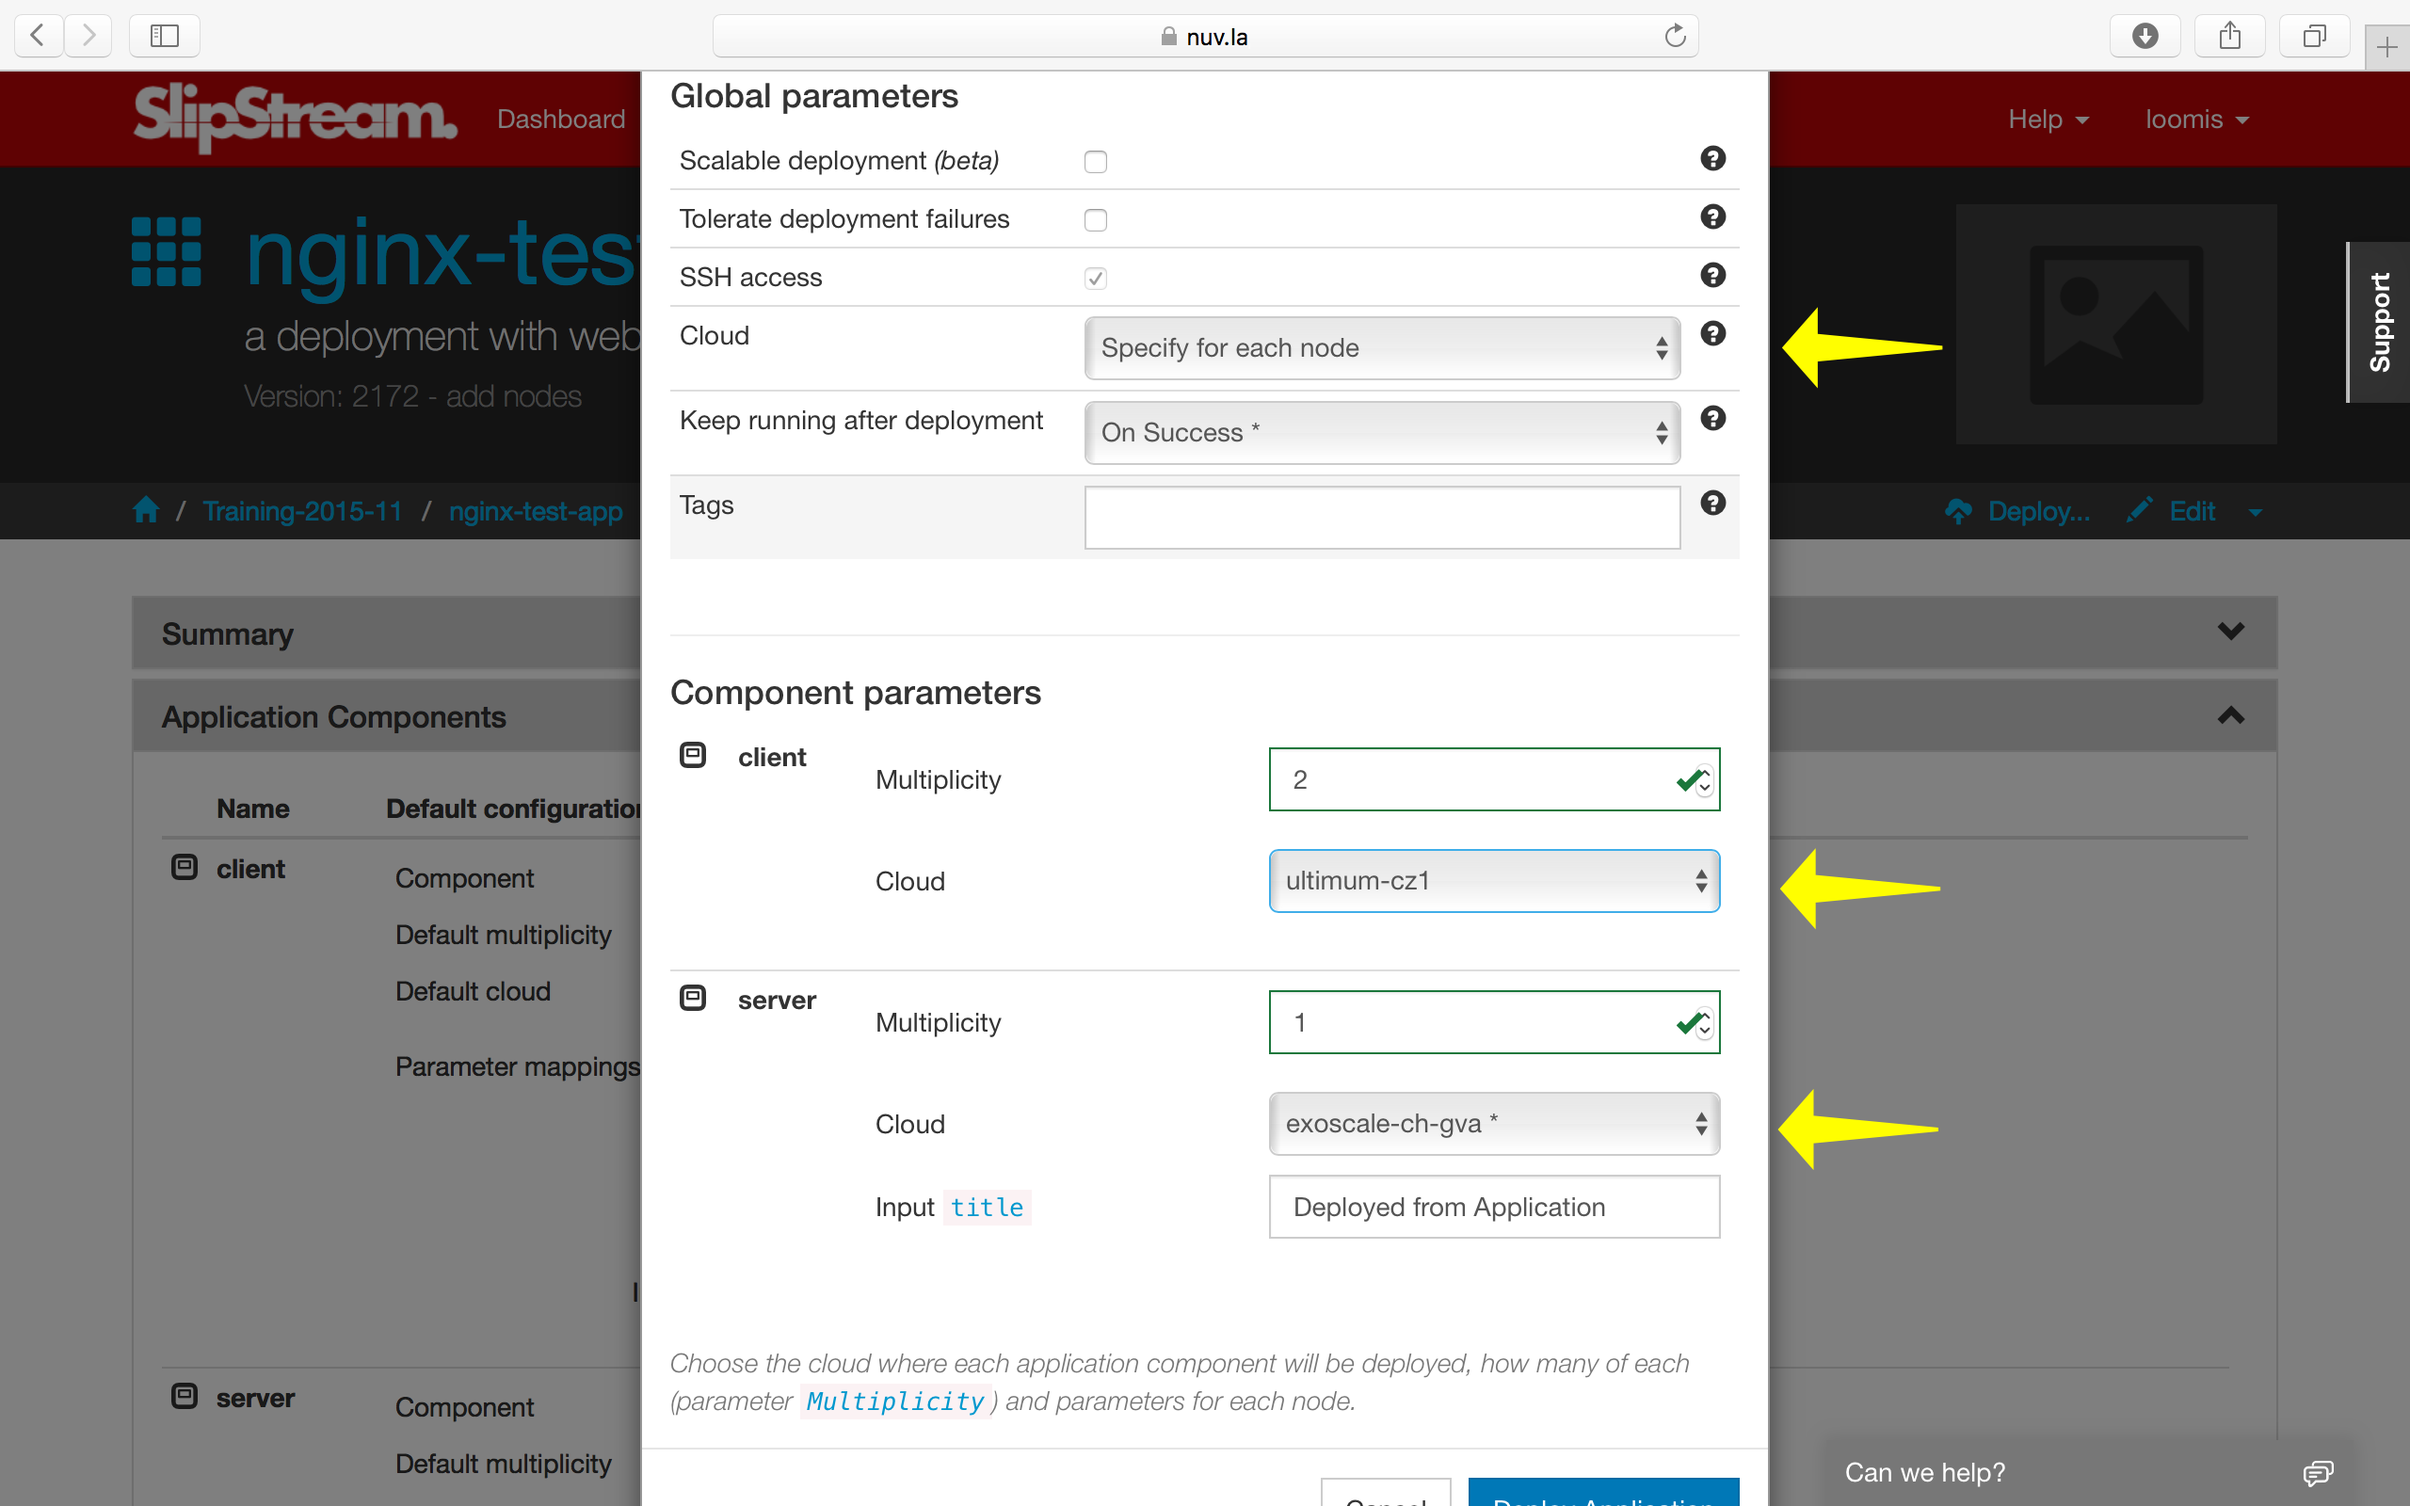
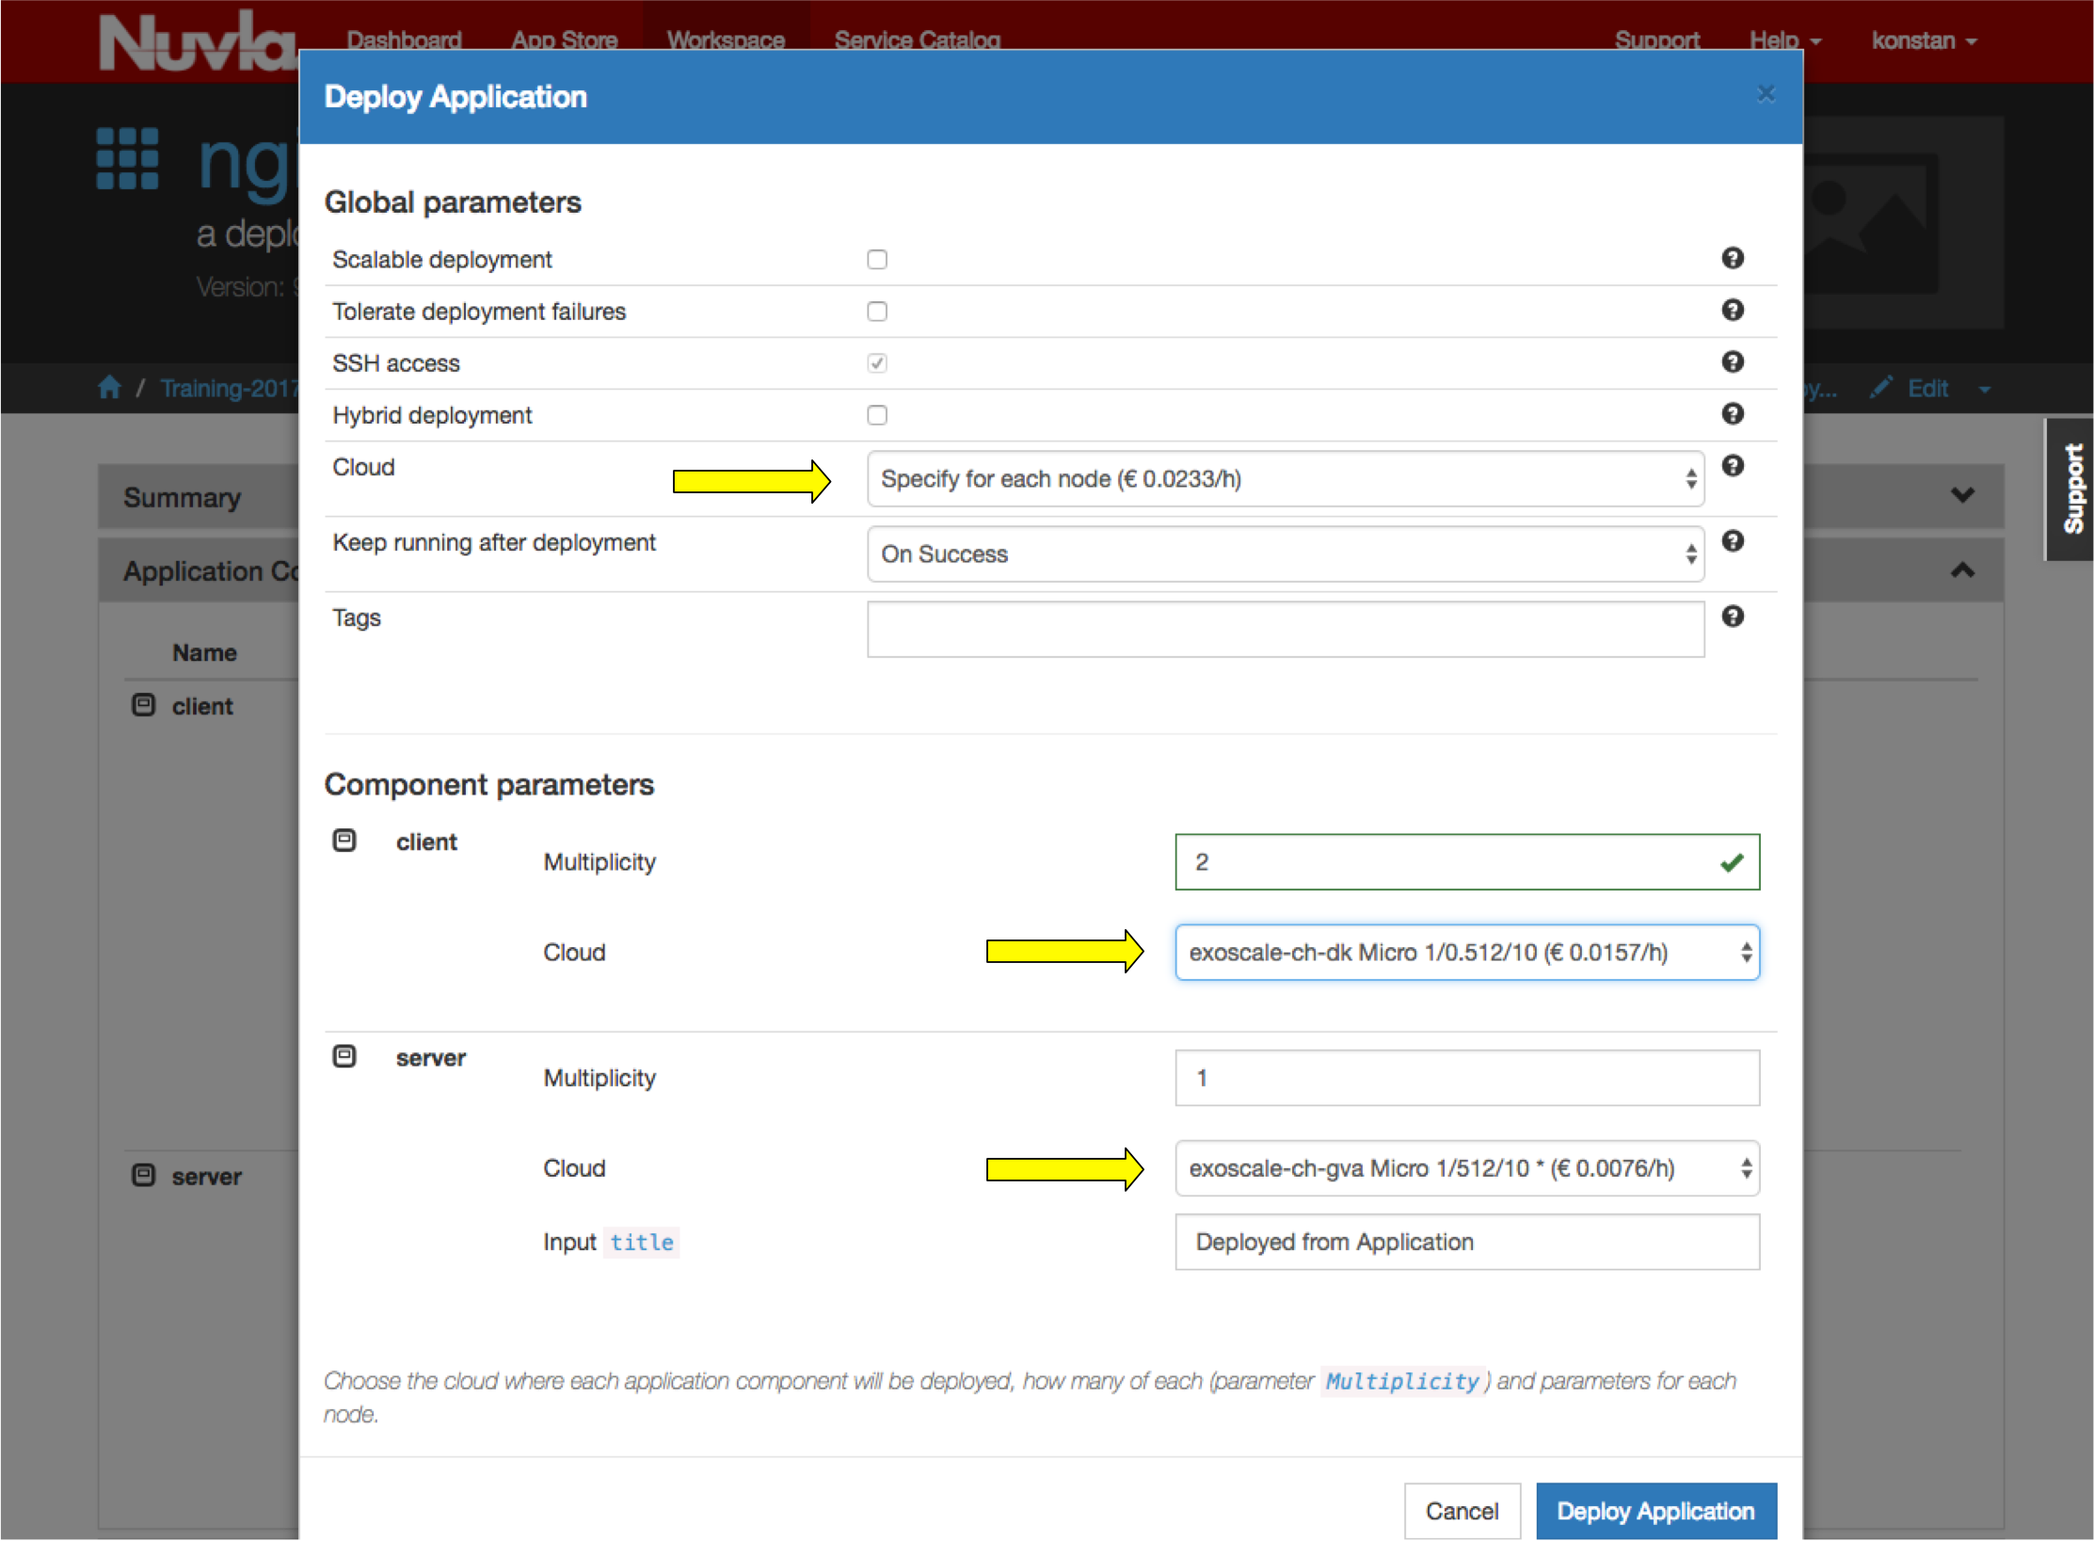
Removed Ultimum cloud from the tutorial. It was left in openstack connector configuration example.

diff --git a/docs/tutorials/ss/applications.rst b/docs/tutorials/ss/applications.rst
@@ -24,7 +24,7 @@ definitions) that will be deployed together. The application will also
 define the mapping between the input/output parameters of the nodes
 that are tied together as well as the multiplicity of each node.
 
-Create a new application definition in your home project.  
+Create a new application definition in your home project.
 The first section of the new application page just asks for generic
 information.
 
@@ -48,7 +48,7 @@ Add two nodes for this deployment, the web server and the test client.
 There are several important things to notice about the application
 definition.  You can:
 
-- Add any number of different components to the application. 
+- Add any number of different components to the application.
 - Define the default multiplicity for each node (default is 1).
 - Define the cloud to use for the node (although you usually want to
   use "default").
@@ -70,17 +70,17 @@ up the usual run dialog.
 Verify that all of the input parameter values are OK and then run the
 application.  As usual you will be redirected to the dashboard.  You
 can view the advancement of the application from there or from the run
-page. 
+page.
 
 When the application completes the deployment, review the reports to
-ensure that everything worked correctly. 
+ensure that everything worked correctly.
 
 Advanced Deployments
 --------------------
 
 From the run dialog you can make a number of significant changes to
 the application deployment without having to change the application
-definition itself. 
+definition itself.
 
 Changing Multiplicity
 ~~~~~~~~~~~~~~~~~~~~~
@@ -91,7 +91,7 @@ client.  It doesn't make much sense for this application to have more
 than one server, but having more than one client could be interesting.
 
 You can do this by changing the client multiplicity in the run
-dialog. 
+dialog.
 
 .. image:: images/screenshots/app-change-mult.png
    :alt: Change the Client Multiplicity
@@ -99,13 +99,14 @@ dialog.
    :align: center
 
 This will then deploy three machines in total.  You can check that the
-reports for each of the clients shows successful results. 
+reports for each of the clients shows successful results.
 
 Multi-Cloud Deployments
 ~~~~~~~~~~~~~~~~~~~~~~~
 
-You can also deploy the nodes of the application into different
-clouds, creating a real multi-cloud deployment.  
+You can also deploy the nodes of the application into different clouds or
+different cloud regions of the same cloud, creating a real multi-cloud
+deployment.
 
 .. image:: images/screenshots/app-multi-cloud.png
    :alt: Multi-Cloud Deployment
@@ -114,7 +115,8 @@ clouds, creating a real multi-cloud deployment.
 
 To do this, choose the option to set the cloud for each node
 separately.  Then do so for each node type.  In the above screenshot,
-I'm running the server in Exoscale and the client in Ultimum.
+I'm running the server on Exoscale in exoscale-ch-gva and exoscale-ch-dk
+regions.
 
 Orchestrators
 -------------
@@ -128,10 +130,10 @@ The orchestrators remain active only when the application can go
 through a "provisioning" stage.  For the types of deployments that
 we've done up to this point, the orchestrators will be terminated
 after all of the reports have been sent back to the SlipStream
-server. 
+server.
 
 Although very lightweight, the orchestrator does represent a small
-overhead when deploying applications through SlipStream. 
+overhead when deploying applications through SlipStream.
 
 
 .. admonition:: EXERCISES
@@ -140,7 +142,7 @@ overhead when deploying applications through SlipStream.
       everything worked correctly.
    2. Change the number of clients and then verify from the reports
       that all of the clients had the correct responses from the
-      server. 
+      server.
    3. Deploy the client node and server nodes in different clouds and
       verify that the deployment works.
    4. Can you modify the application so that you can put clients in

diff --git a/docs/tutorials/ss/prerequisites.rst b/docs/tutorials/ss/prerequisites.rst
@@ -119,7 +119,7 @@ source cloud solutions.  The registration procedure is similar for all
 cloud services, but you may need to contact your cloud administrator
 for all of the necessary configuration parameters.
 
-The detailed procedure is provided for Exoscale_ and Ultimum_ below.
+The detailed procedure is provided for Exoscale_ below.
 
 Exoscale
 ~~~~~~~~
@@ -151,17 +151,20 @@ you need in the Exoscale portal:
    :width: 70%
    :align: center
 
-Add your Exoscale credential to your Nuvla account:
+Add your Exoscale credential to your Nuvla account for the Exoscale regions
+defined there by repeating steps 3. and 4. for "exoscale-ch-gva" and
+"exoscale-ch-dk" connector instances.
 
 1. Open your user profile (top-right, under your username).
 2. Click on "Edit".
-3. Open the section "exoscale-ch-gva" by clicking on the section header.
+3. Open the section "exoscale-ch-gva" (or "exoscale-ch-dk") by clicking on the
+   section header.
 4. Provide the "API Key" value in the "Key" field and the "Secret Key"
    value in the "Secret" field.
 5. Click on "Save".
 
-You will now be able to use the Exoscale cloud with your account through
-Nuvla.
+You will now be able to use two regions of the Exoscale cloud with your account
+through Nuvla.
 
 .. admonition:: EXERCISES
 
@@ -169,37 +172,6 @@ Nuvla.
    2. Add your Exoscale credentials to your user profile.
    3. Set the "Default cloud" parameter to Exoscale in your user
       profile.
-
-Ultimum
-~~~~~~~
-
-If you need to create an account at Ultimum, you can visit their
-`registration page <https://cz1.ultimum.io/auth/login/>`__.
-**For the paid training events, we will already have obtained an
-Ultimum account for you; so no need to register separately.**
-
-Once you've obtained your account with Ultimum, then you'll need to
-provide your Ultimum credentials (username and password) to SlipStream.
-The username is your email address.
-
-To add your Ultimum credentials to your SlipStream account:
-
-1. Open your user profile (top-right, under your username).
-2. Click on "Edit".
-3. Open the section "ultimum-cz1" by clicking on the section header.
-4. Provide values for your username (email), password, and "Project
-   name (Tenant name). **Your "Project name" is the same as your
-   username.**
-5. Click on "Save".
-
-You will now be able to use the Ultimum cloud with your account through
-Nuvla.
-
-.. admonition:: EXERCISES
-
-   1. Follow the Ultimum registration procedure to obtain an account.
-   2. Add your Ultimum credentials to your user profile.
-
 
 Workstation Configuration
 -------------------------
@@ -231,8 +203,6 @@ information for the installation and configuration of these tools.**
 .. _Appendix: appendix.html
 
 .. _Exoscale: https://www.exoscale.ch
-
-.. _Ultimum: http://ultimum.io
 
 .. [#] You can also use an account on a cloud infrastructure with more
        than one region.  You can also follow the tutorial using only

diff --git a/docs/tutorials/ss/images.rst b/docs/tutorials/ss/images.rst
@@ -69,10 +69,7 @@ Identifiers and Image Hierarchy" section.
    :align: center
 
 When creating a new image, you'll need to find the appropriate image
-identifiers through the cloud provider's interface.  On Ultimum, you
-can find the identifiers through the "Images" tab in their
-|ultimum-console|.
-For Exoscale, the
+identifiers through the cloud provider's interface.  For Exoscale, the
 identifiers are available from a |exoscale-images|.
 
 VM Size
@@ -93,7 +90,8 @@ Some providers allow you to specify the CPU and RAM resources
 explicitly; others only allow you to specify a "t-shirt" size.  **You
 will have to consult documentation from the cloud providers to
 understand the allowed values and their meanings.** The following
-table shows the differing sizes for Exoscale and Ultimum.
+table shows the differing sizes for Exoscale and Ultimum (just another cloud
+brought here for a comparision).
 
 ============ ============= === ========
 Exoscale     Ultimum       CPU RAM (GB)
@@ -219,10 +217,11 @@ debugging or developing service installation recipes.
 
 .. admonition:: EXERCISES
 
-   1. Create a copy of the Ubuntu 14.04 image and change the size
-      for either Exoscale or Ultimum.  Leave the other unchanged.
-   2. Deploy the copy on both Exoscale and Ultimum. Note the
-      deployment times.
+   1. Create a copy of the Ubuntu 14.04 image and change the size for either
+         Exoscale exoscale-ch-gva or exoscale-ch-dk.  Leave the other
+         unchanged.
+   2. Deploy the copy on both Exoscale exoscale-ch-gva or exoscale-ch-dk. Note
+         the deployment times.
    3. Verify that you can log into both machines with SSH.
    4. Verify that the number of CPUs (``/proc/cpuinfo``) and the RAM
       (``/proc/meminfo``) are the values expected from the size.
@@ -241,10 +240,6 @@ debugging or developing service installation recipes.
 .. |ubuntu-14.04| raw:: html
 
    <a href="https://nuv.la/module/examples/images/ubuntu-14.04#1-cloud-image-identifiers-and-image-hierarchy" target="_blank">examples/images/ubuntu-14.04</a>
-
-.. |ultimum-console| raw:: html
-
-   <a href="https://cz1.ultimum.io/auth/login" target="_blank">web console</a>
 
 .. |exoscale-images| raw:: html
 
